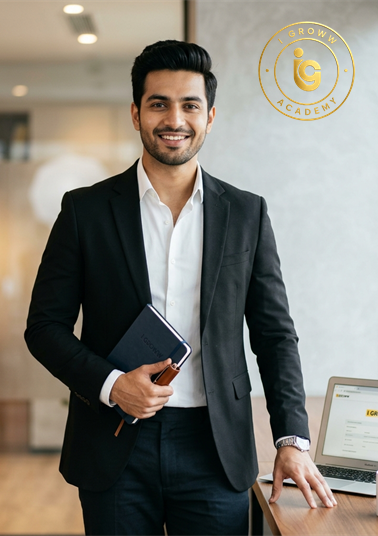
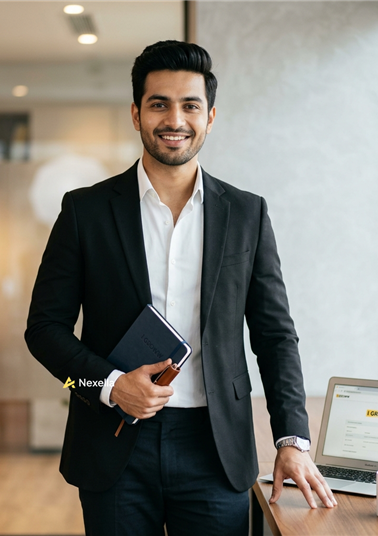
Restore original template section images (about-img1.jpg, about-img2.jpg, pricing-img.png, hero-thumb display) exactly as they were

diff --git a/css/responsive.css b/css/responsive.css
@@ -2337,7 +2337,7 @@ h1, h2, h3, h4 {
 	}
 
 	.banner-section.style_two .hero-thumb {
-		display: none !important;
+		display: block;
 	}
 
 	.banner-section.style_two .content-box .hero-marketing-box {
@@ -3137,7 +3137,7 @@ h1, h2, h3, h4 {
 	}
 
 	.banner-section.style_two .hero-thumb {
-		display: none !important;
+		display: block;
 	}
 
 	.banner-section.style_two .content-box .hero-marketing-box {
@@ -4119,7 +4119,7 @@ h1, h2, h3, h4 {
 	}
 
 	.banner-section.style_two .hero-thumb {
-		display: none !important;
+		display: block;
 	}
 
 	.banner-section.style_two .content-box .hero-marketing-box {

diff --git a/index-2.html b/index-2.html
@@ -180,8 +180,8 @@
 <div class="row">
 <div class="image-column col-xl-6 col-lg-7 col-md-12 col-sm-12">
 <div class="inner-column">
-<figure class="image-1 overlay-anim wow fadeInUp"><img alt="" src="images/home-2/about-img1.png?v=2"/></figure>
-<figure class="image-2 overlay-anim wow fadeInUp"><img alt="" src="images/home-2/about-img2.png?v=2"/></figure>
+<figure class="image-1 overlay-anim wow fadeInUp"><img alt="" src="images/home-2/about-img1.jpg"/></figure>
+<figure class="image-2 overlay-anim wow fadeInUp"><img alt="" src="images/home-2/about-img2.jpg"/></figure>
 <div class="about-campaign bounce-animate3">
 <span class="campaign-badge">Career Growth</span>
 </div>

diff --git a/index.html b/index.html
@@ -180,8 +180,8 @@
 <div class="row">
 <div class="image-column col-xl-6 col-lg-7 col-md-12 col-sm-12">
 <div class="inner-column">
-<figure class="image-1 overlay-anim wow fadeInUp"><img alt="" src="images/home-2/about-img1.png?v=2"/></figure>
-<figure class="image-2 overlay-anim wow fadeInUp"><img alt="" src="images/home-2/about-img2.png?v=2"/></figure>
+<figure class="image-1 overlay-anim wow fadeInUp"><img alt="" src="images/home-2/about-img1.jpg"/></figure>
+<figure class="image-2 overlay-anim wow fadeInUp"><img alt="" src="images/home-2/about-img2.jpg"/></figure>
 <div class="about-campaign bounce-animate3">
 <span class="campaign-badge">Career Growth</span>
 </div>